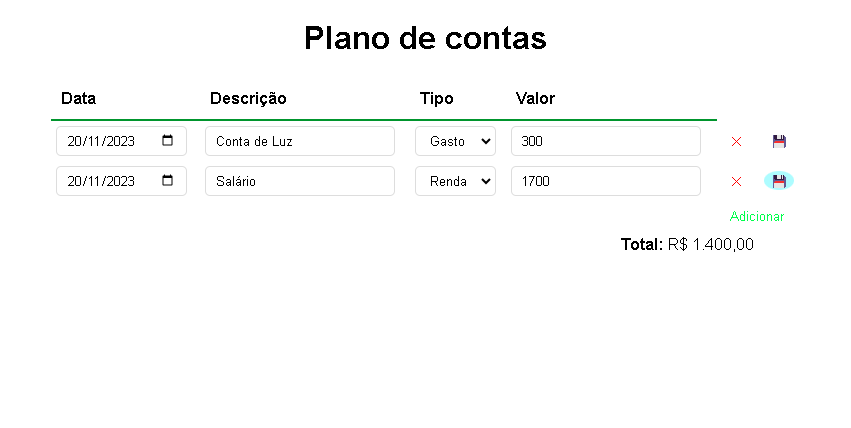
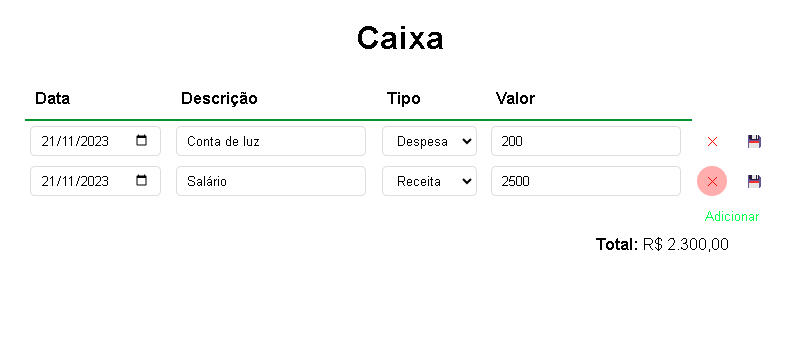
feat: readme update

diff --git a/index.html b/index.html
@@ -3,12 +3,12 @@
 <head>
     <meta charset="UTF-8">
     <meta name="viewport" content="width=device-width, initial-scale=1.0">
-    <title>Plano de contas</title>
+    <title>Financeiro</title>
     <link rel="stylesheet" href="css/style.css">
     <script src="https://code.jquery.com/jquery-3.6.4.min.js"></script>
     <script type="module" src="js/main.js"></script>
 </head>
 <body>
-    <h1 class="title">Plano de contas</h1>
+    <h1 class="title">Caixa</h1>
     <div id="app"></div>
 </body>

diff --git a/js/BudgetTracker.js b/js/BudgetTracker.js
@@ -52,8 +52,8 @@ export default class BudgetTracker {
             </td>
             <td>
                 <select class="input input-type">
-                    <option value="income">Renda</option>
-                    <option value="expense">Gasto</option>   
+                    <option value="income">Receita</option>
+                    <option value="expense">Despesa</option>   
                 </select>
             </td>
             <td>

diff --git a/README.md b/README.md
@@ -1,6 +1,6 @@
-# PLANO DE CONTAS
+# Fluxo de Caixa
 
-## Gerenciador de gastos e renda
+## Gerenciador de Receita e Despesas
 
 - TECNOLOGIAS UTILIZADAS
 
@@ -39,10 +39,9 @@ Para adicionar uma nova entrada, clique no botão Adicionar:
 
 <img src="/public/1.png">
 
-Informe os campos de data, descrição, se é um Gasto ou Renda, valor e clique no botão de salvar para gravar esta nova entrada, caso seja uma entrada que já existe, você pode estar alterando qualquer campo e clicando no botão de gravar novamente, assim, essa entrada será atualizada
+Informe os campos de data, descrição, se é uma Despesa ou Receita, valor e clique no botão de salvar para gravar esta nova entrada, caso seja uma entrada que já existe, você pode estar alterando qualquer campo e clicando no botão de gravar novamente, assim, essa entrada será atualizada
 
 <img src="/public/2.png">
-<img src="/public/3.png">
 
 Os dados ficarão salvos no banco de dados local:
 
@@ -50,8 +49,8 @@ Os dados ficarão salvos no banco de dados local:
 
 Caso queira remover a entrada, basta clicar no botão de remover ao lado da entrada:
 
+<img src="/public/3.png">
 <img src="/public/5.png">
-<img src="/public/6.png">
 
 ## Autor
 
